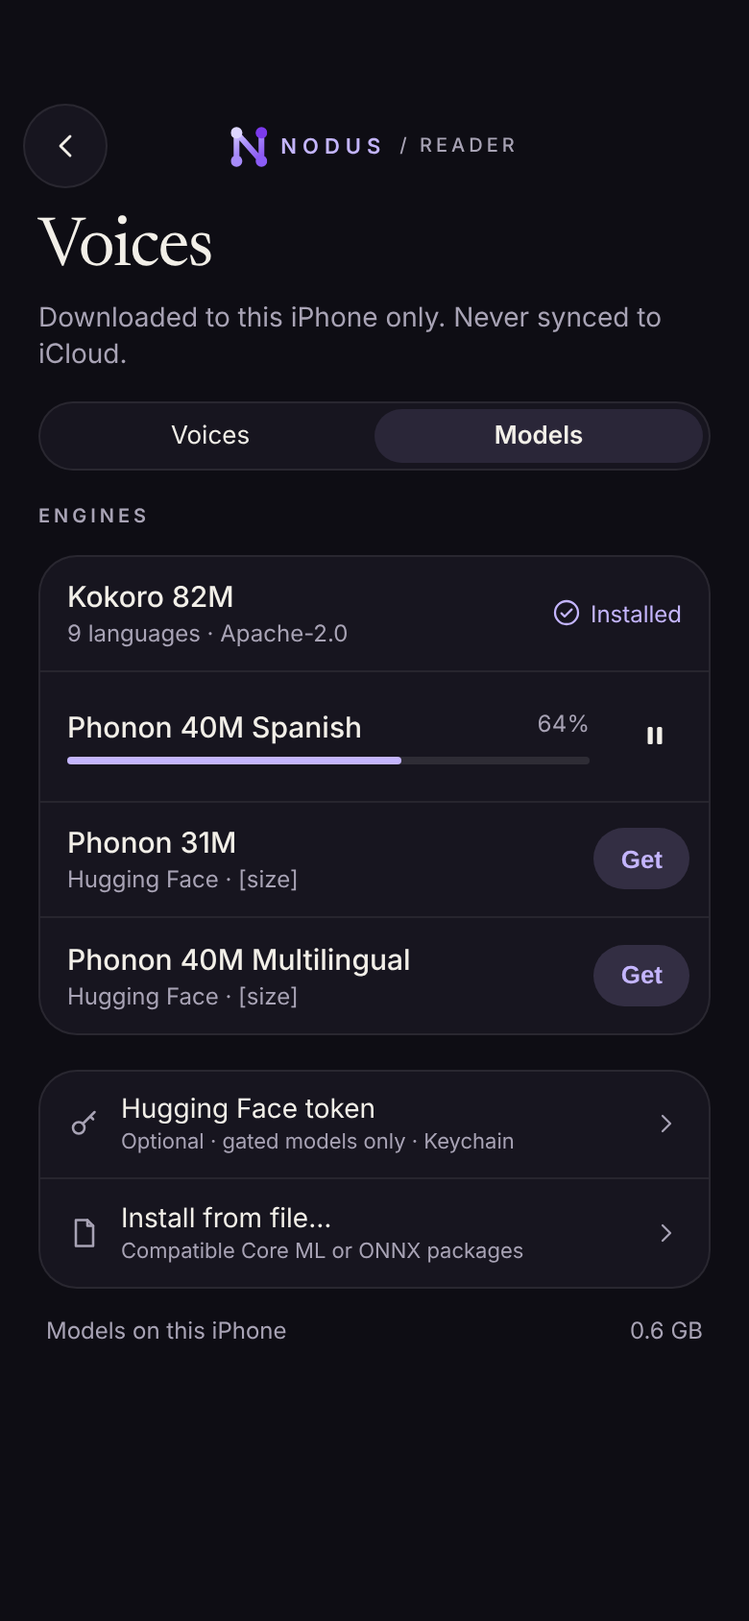
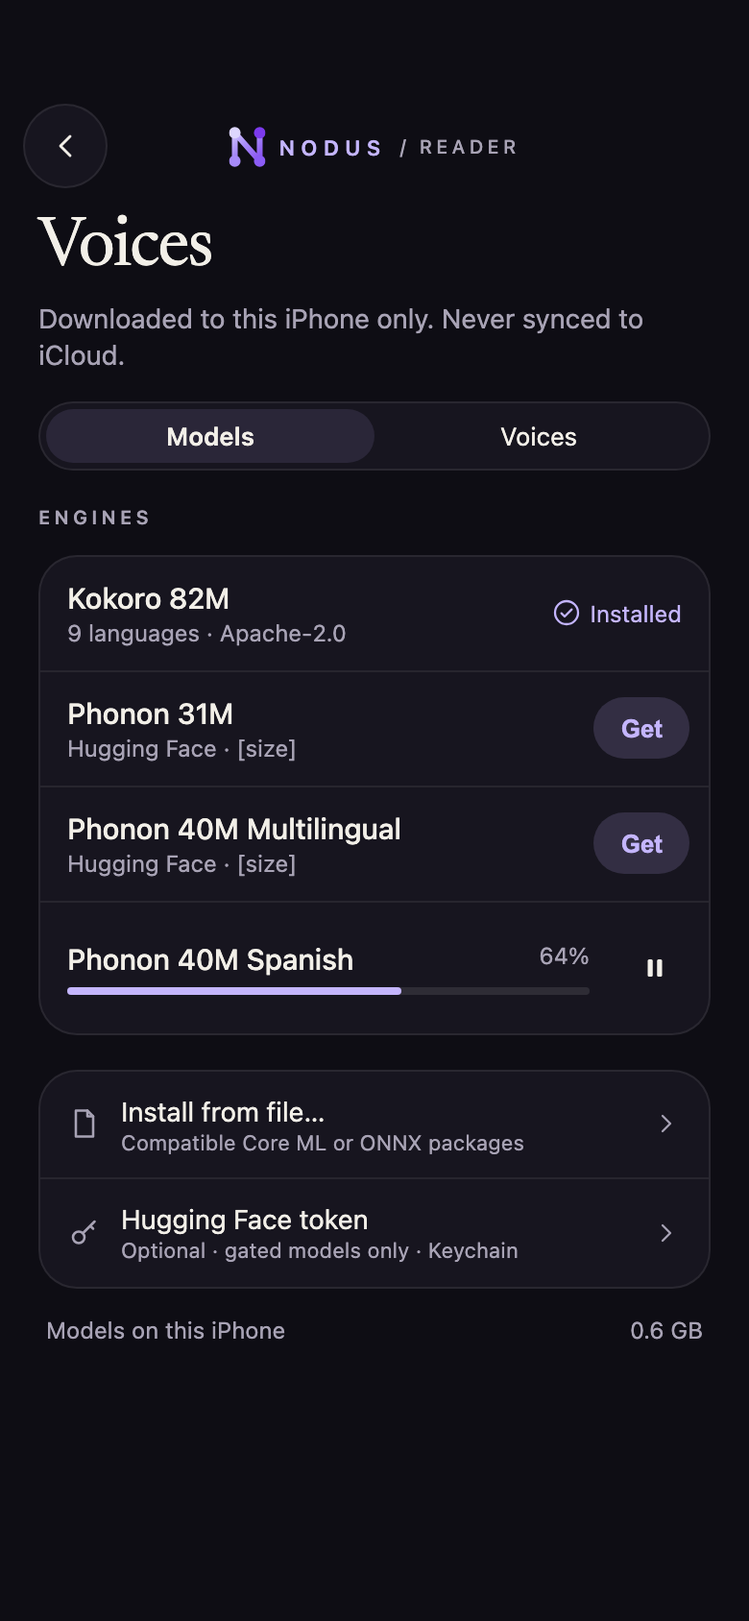
Show Models first and list gated Phonon models with the rest
- The Voices screen's segmented control now reads Models / Voices.
- Every model is in one list (Kokoro 82M, Phonon 31M, Phonon 40M
  Multilingual, Phonon 40M Spanish); Multilingual comes before Spanish.
- Download on a gated model first explains that it needs a Hugging Face
  sign-in and Gradium's accepted conditions, with Sign in (or Download
  when signed in), Show the guide and Cancel.
- The Hugging Face account section moves below the list and Install
  from file, and its copy names which models need an account.
- The Download button no longer repeats the size ("Download About
  300 MB download"); VoiceOver reads the model name.
- DESIGN.md, the Voices and Models mockups, previews and screenshots
  and the Spanish catalog are updated.

diff --git a/design/mockups/iPhone-Models.dc.html b/design/mockups/iPhone-Models.dc.html
@@ -33,8 +33,8 @@ svg.i{fill:none;stroke:currentColor;stroke-width:1.7;stroke-linecap:round;stroke
     </div>
 
     <div role="tablist" aria-label="Voices and models" style="height: 36px; padding: 3px; box-sizing: border-box; border-radius: 18px; background: #17151F; border: 1px solid rgba(255,255,255,0.08); display: grid; grid-template-columns: repeat(2, minmax(0, 1fr))">
-      <a href="iPhone-Voices.dc.html" role="tab" aria-selected="false" style="border-radius: 15px; color: #F2EFE8; font-size: 13px; text-decoration: none; display: flex; align-items: center; justify-content: center">Voices</a>
       <a href="iPhone-Models.dc.html" role="tab" aria-selected="true" style="border-radius: 15px; background: #2A2638; color: #F2EFE8; font-size: 13px; font-weight: 600; text-decoration: none; display: flex; align-items: center; justify-content: center">Models</a>
+      <a href="iPhone-Voices.dc.html" role="tab" aria-selected="false" style="border-radius: 15px; color: #F2EFE8; font-size: 13px; text-decoration: none; display: flex; align-items: center; justify-content: center">Voices</a>
     </div>
 
     <span style="font-size: 10px; font-weight: 600; letter-spacing: 2px; color: #A8A3B5; margin-top: 4px">ENGINES</span>
@@ -43,32 +43,32 @@ svg.i{fill:none;stroke:currentColor;stroke-width:1.7;stroke-linecap:round;stroke
         <span style="display: flex; flex-direction: column; gap: 2px; flex-grow: 1"><span style="font-size: 15px; font-weight: 500">Kokoro 82M</span><span style="font-size: 12px; color: #A8A3B5">9 languages · Apache-2.0</span></span>
         <span style="display: flex; align-items: center; gap: 4px; font-size: 12px; color: #C4B5FD"><svg class="i" viewBox="0 0 24 24" width="16" height="16" aria-hidden="true"><circle cx="12" cy="12" r="9"></circle><path d="M8 12.5l2.5 2.5L16 9.5"></path></svg>Installed</span>
       </div>
-      <div style="min-height: 68px; padding: 8px 6px 8px 14px; box-sizing: border-box; display: flex; align-items: center; gap: 12px; border-bottom: 1px solid rgba(255,255,255,0.07)">
+      <div style="min-height: 60px; padding: 8px 10px 8px 14px; box-sizing: border-box; display: flex; align-items: center; gap: 12px; border-bottom: 1px solid rgba(255,255,255,0.07)">
+        <span style="display: flex; flex-direction: column; gap: 2px; flex-grow: 1"><span style="font-size: 15px; font-weight: 500">Phonon 31M</span><span style="font-size: 12px; color: #A8A3B5">Hugging Face · [size]</span></span>
+        <button style="height: 32px; padding: 0 14px; border-radius: 16px; border: 0; background: rgba(196,181,253,0.16); color: #C4B5FD; font-size: 13px; font-weight: 600">Get</button>
+      </div>
+      <div style="min-height: 60px; padding: 8px 10px 8px 14px; box-sizing: border-box; display: flex; align-items: center; gap: 12px; border-bottom: 1px solid rgba(255,255,255,0.07)">
+        <span style="display: flex; flex-direction: column; gap: 2px; flex-grow: 1"><span style="font-size: 15px; font-weight: 500">Phonon 40M Multilingual</span><span style="font-size: 12px; color: #A8A3B5">Hugging Face · [size]</span></span>
+        <button style="height: 32px; padding: 0 14px; border-radius: 16px; border: 0; background: rgba(196,181,253,0.16); color: #C4B5FD; font-size: 13px; font-weight: 600">Get</button>
+      </div>
+      <div style="min-height: 68px; padding: 8px 6px 8px 14px; box-sizing: border-box; display: flex; align-items: center; gap: 12px">
         <span style="display: flex; flex-direction: column; gap: 6px; flex-grow: 1">
           <span style="display: flex; justify-content: space-between; gap: 8px"><span style="font-size: 15px; font-weight: 500">Phonon 40M Spanish</span><span style="font-size: 12px; color: #A8A3B5; font-variant-numeric: tabular-nums">64%</span></span>
           <span style="height: 4px; border-radius: 2px; background: rgba(255,255,255,0.1)"><span style="display: block; width: 64%; height: 4px; border-radius: 2px; background: #C4B5FD"></span></span>
         </span>
         <button aria-label="Pause download" style="width: 44px; height: 44px; border: 0; background: transparent; color: #F2EFE8; display: flex; align-items: center; justify-content: center; flex-shrink: 0"><svg viewBox="0 0 24 24" width="18" height="18" aria-hidden="true"><rect x="7" y="6" width="3.5" height="12" rx="1" fill="currentColor"></rect><rect x="13.5" y="6" width="3.5" height="12" rx="1" fill="currentColor"></rect></svg></button>
       </div>
-      <div style="min-height: 60px; padding: 8px 10px 8px 14px; box-sizing: border-box; display: flex; align-items: center; gap: 12px; border-bottom: 1px solid rgba(255,255,255,0.07)">
-        <span style="display: flex; flex-direction: column; gap: 2px; flex-grow: 1"><span style="font-size: 15px; font-weight: 500">Phonon 31M</span><span style="font-size: 12px; color: #A8A3B5">Hugging Face · [size]</span></span>
-        <button style="height: 32px; padding: 0 14px; border-radius: 16px; border: 0; background: rgba(196,181,253,0.16); color: #C4B5FD; font-size: 13px; font-weight: 600">Get</button>
-      </div>
-      <div style="min-height: 60px; padding: 8px 10px 8px 14px; box-sizing: border-box; display: flex; align-items: center; gap: 12px">
-        <span style="display: flex; flex-direction: column; gap: 2px; flex-grow: 1"><span style="font-size: 15px; font-weight: 500">Phonon 40M Multilingual</span><span style="font-size: 12px; color: #A8A3B5">Hugging Face · [size]</span></span>
-        <button style="height: 32px; padding: 0 14px; border-radius: 16px; border: 0; background: rgba(196,181,253,0.16); color: #C4B5FD; font-size: 13px; font-weight: 600">Get</button>
-      </div>
     </div>
 
     <div style="border-radius: 20px; background: #17151F; border: 1px solid rgba(255,255,255,0.08); overflow: hidden; margin-top: 4px">
       <a href="iPhone-Models.dc.html" style="min-height: 56px; padding: 0 14px; box-sizing: border-box; color: #F2EFE8; text-decoration: none; display: flex; align-items: center; gap: 10px; border-bottom: 1px solid rgba(255,255,255,0.07)">
-        <svg class="i" viewBox="0 0 24 24" width="18" height="18" aria-hidden="true" style="color: #A8A3B5"><circle cx="8" cy="15" r="4"></circle><path d="M11 12l8-8M16 7l2 2"></path></svg>
-        <span style="display: flex; flex-direction: column; gap: 1px; flex-grow: 1"><span style="font-size: 14px">Hugging Face token</span><span style="font-size: 11px; color: #A8A3B5">Optional · gated models only · Keychain</span></span>
+        <svg class="i" viewBox="0 0 24 24" width="18" height="18" aria-hidden="true" style="color: #A8A3B5"><path d="M6 3h8l4 4v14H6z"></path><path d="M14 3v4h4"></path></svg>
+        <span style="display: flex; flex-direction: column; gap: 1px; flex-grow: 1"><span style="font-size: 14px">Install from file…</span><span style="font-size: 11px; color: #A8A3B5">Compatible Core ML or ONNX packages</span></span>
         <svg class="i" viewBox="0 0 24 24" width="16" height="16" aria-hidden="true" style="color: #A8A3B5"><path d="M9 6l6 6-6 6"></path></svg>
       </a>
       <a href="iPhone-Models.dc.html" style="min-height: 56px; padding: 0 14px; box-sizing: border-box; color: #F2EFE8; text-decoration: none; display: flex; align-items: center; gap: 10px">
-        <svg class="i" viewBox="0 0 24 24" width="18" height="18" aria-hidden="true" style="color: #A8A3B5"><path d="M6 3h8l4 4v14H6z"></path><path d="M14 3v4h4"></path></svg>
-        <span style="display: flex; flex-direction: column; gap: 1px; flex-grow: 1"><span style="font-size: 14px">Install from file…</span><span style="font-size: 11px; color: #A8A3B5">Compatible Core ML or ONNX packages</span></span>
+        <svg class="i" viewBox="0 0 24 24" width="18" height="18" aria-hidden="true" style="color: #A8A3B5"><circle cx="8" cy="15" r="4"></circle><path d="M11 12l8-8M16 7l2 2"></path></svg>
+        <span style="display: flex; flex-direction: column; gap: 1px; flex-grow: 1"><span style="font-size: 14px">Hugging Face token</span><span style="font-size: 11px; color: #A8A3B5">Optional · gated models only · Keychain</span></span>
         <svg class="i" viewBox="0 0 24 24" width="16" height="16" aria-hidden="true" style="color: #A8A3B5"><path d="M9 6l6 6-6 6"></path></svg>
       </a>
     </div>

diff --git a/design/preview/iPhone-Models.html b/design/preview/iPhone-Models.html
@@ -31,8 +31,8 @@ svg.i{fill:none;stroke:currentColor;stroke-width:1.7;stroke-linecap:round;stroke
     </div>
 
     <div role="tablist" aria-label="Voices and models" style="height: 36px; padding: 3px; box-sizing: border-box; border-radius: 18px; background: #17151F; border: 1px solid rgba(255,255,255,0.08); display: grid; grid-template-columns: repeat(2, minmax(0, 1fr))">
-      <a href="iPhone-Voices.dc.html" role="tab" aria-selected="false" style="border-radius: 15px; color: #F2EFE8; font-size: 13px; text-decoration: none; display: flex; align-items: center; justify-content: center">Voices</a>
       <a href="iPhone-Models.dc.html" role="tab" aria-selected="true" style="border-radius: 15px; background: #2A2638; color: #F2EFE8; font-size: 13px; font-weight: 600; text-decoration: none; display: flex; align-items: center; justify-content: center">Models</a>
+      <a href="iPhone-Voices.dc.html" role="tab" aria-selected="false" style="border-radius: 15px; color: #F2EFE8; font-size: 13px; text-decoration: none; display: flex; align-items: center; justify-content: center">Voices</a>
     </div>
 
     <span style="font-size: 10px; font-weight: 600; letter-spacing: 2px; color: #A8A3B5; margin-top: 4px">ENGINES</span>
@@ -41,32 +41,32 @@ svg.i{fill:none;stroke:currentColor;stroke-width:1.7;stroke-linecap:round;stroke
         <span style="display: flex; flex-direction: column; gap: 2px; flex-grow: 1"><span style="font-size: 15px; font-weight: 500">Kokoro 82M</span><span style="font-size: 12px; color: #A8A3B5">9 languages · Apache-2.0</span></span>
         <span style="display: flex; align-items: center; gap: 4px; font-size: 12px; color: #C4B5FD"><svg class="i" viewBox="0 0 24 24" width="16" height="16" aria-hidden="true"><circle cx="12" cy="12" r="9"></circle><path d="M8 12.5l2.5 2.5L16 9.5"></path></svg>Installed</span>
       </div>
-      <div style="min-height: 68px; padding: 8px 6px 8px 14px; box-sizing: border-box; display: flex; align-items: center; gap: 12px; border-bottom: 1px solid rgba(255,255,255,0.07)">
+      <div style="min-height: 60px; padding: 8px 10px 8px 14px; box-sizing: border-box; display: flex; align-items: center; gap: 12px; border-bottom: 1px solid rgba(255,255,255,0.07)">
+        <span style="display: flex; flex-direction: column; gap: 2px; flex-grow: 1"><span style="font-size: 15px; font-weight: 500">Phonon 31M</span><span style="font-size: 12px; color: #A8A3B5">Hugging Face · [size]</span></span>
+        <button style="height: 32px; padding: 0 14px; border-radius: 16px; border: 0; background: rgba(196,181,253,0.16); color: #C4B5FD; font-size: 13px; font-weight: 600">Get</button>
+      </div>
+      <div style="min-height: 60px; padding: 8px 10px 8px 14px; box-sizing: border-box; display: flex; align-items: center; gap: 12px; border-bottom: 1px solid rgba(255,255,255,0.07)">
+        <span style="display: flex; flex-direction: column; gap: 2px; flex-grow: 1"><span style="font-size: 15px; font-weight: 500">Phonon 40M Multilingual</span><span style="font-size: 12px; color: #A8A3B5">Hugging Face · [size]</span></span>
+        <button style="height: 32px; padding: 0 14px; border-radius: 16px; border: 0; background: rgba(196,181,253,0.16); color: #C4B5FD; font-size: 13px; font-weight: 600">Get</button>
+      </div>
+      <div style="min-height: 68px; padding: 8px 6px 8px 14px; box-sizing: border-box; display: flex; align-items: center; gap: 12px">
         <span style="display: flex; flex-direction: column; gap: 6px; flex-grow: 1">
           <span style="display: flex; justify-content: space-between; gap: 8px"><span style="font-size: 15px; font-weight: 500">Phonon 40M Spanish</span><span style="font-size: 12px; color: #A8A3B5; font-variant-numeric: tabular-nums">64%</span></span>
           <span style="height: 4px; border-radius: 2px; background: rgba(255,255,255,0.1)"><span style="display: block; width: 64%; height: 4px; border-radius: 2px; background: #C4B5FD"></span></span>
         </span>
         <button aria-label="Pause download" style="width: 44px; height: 44px; border: 0; background: transparent; color: #F2EFE8; display: flex; align-items: center; justify-content: center; flex-shrink: 0"><svg viewBox="0 0 24 24" width="18" height="18" aria-hidden="true"><rect x="7" y="6" width="3.5" height="12" rx="1" fill="currentColor"></rect><rect x="13.5" y="6" width="3.5" height="12" rx="1" fill="currentColor"></rect></svg></button>
       </div>
-      <div style="min-height: 60px; padding: 8px 10px 8px 14px; box-sizing: border-box; display: flex; align-items: center; gap: 12px; border-bottom: 1px solid rgba(255,255,255,0.07)">
-        <span style="display: flex; flex-direction: column; gap: 2px; flex-grow: 1"><span style="font-size: 15px; font-weight: 500">Phonon 31M</span><span style="font-size: 12px; color: #A8A3B5">Hugging Face · [size]</span></span>
-        <button style="height: 32px; padding: 0 14px; border-radius: 16px; border: 0; background: rgba(196,181,253,0.16); color: #C4B5FD; font-size: 13px; font-weight: 600">Get</button>
-      </div>
-      <div style="min-height: 60px; padding: 8px 10px 8px 14px; box-sizing: border-box; display: flex; align-items: center; gap: 12px">
-        <span style="display: flex; flex-direction: column; gap: 2px; flex-grow: 1"><span style="font-size: 15px; font-weight: 500">Phonon 40M Multilingual</span><span style="font-size: 12px; color: #A8A3B5">Hugging Face · [size]</span></span>
-        <button style="height: 32px; padding: 0 14px; border-radius: 16px; border: 0; background: rgba(196,181,253,0.16); color: #C4B5FD; font-size: 13px; font-weight: 600">Get</button>
-      </div>
     </div>
 
     <div style="border-radius: 20px; background: #17151F; border: 1px solid rgba(255,255,255,0.08); overflow: hidden; margin-top: 4px">
       <a href="iPhone-Models.dc.html" style="min-height: 56px; padding: 0 14px; box-sizing: border-box; color: #F2EFE8; text-decoration: none; display: flex; align-items: center; gap: 10px; border-bottom: 1px solid rgba(255,255,255,0.07)">
-        <svg class="i" viewBox="0 0 24 24" width="18" height="18" aria-hidden="true" style="color: #A8A3B5"><circle cx="8" cy="15" r="4"></circle><path d="M11 12l8-8M16 7l2 2"></path></svg>
-        <span style="display: flex; flex-direction: column; gap: 1px; flex-grow: 1"><span style="font-size: 14px">Hugging Face token</span><span style="font-size: 11px; color: #A8A3B5">Optional · gated models only · Keychain</span></span>
+        <svg class="i" viewBox="0 0 24 24" width="18" height="18" aria-hidden="true" style="color: #A8A3B5"><path d="M6 3h8l4 4v14H6z"></path><path d="M14 3v4h4"></path></svg>
+        <span style="display: flex; flex-direction: column; gap: 1px; flex-grow: 1"><span style="font-size: 14px">Install from file…</span><span style="font-size: 11px; color: #A8A3B5">Compatible Core ML or ONNX packages</span></span>
         <svg class="i" viewBox="0 0 24 24" width="16" height="16" aria-hidden="true" style="color: #A8A3B5"><path d="M9 6l6 6-6 6"></path></svg>
       </a>
       <a href="iPhone-Models.dc.html" style="min-height: 56px; padding: 0 14px; box-sizing: border-box; color: #F2EFE8; text-decoration: none; display: flex; align-items: center; gap: 10px">
-        <svg class="i" viewBox="0 0 24 24" width="18" height="18" aria-hidden="true" style="color: #A8A3B5"><path d="M6 3h8l4 4v14H6z"></path><path d="M14 3v4h4"></path></svg>
-        <span style="display: flex; flex-direction: column; gap: 1px; flex-grow: 1"><span style="font-size: 14px">Install from file…</span><span style="font-size: 11px; color: #A8A3B5">Compatible Core ML or ONNX packages</span></span>
+        <svg class="i" viewBox="0 0 24 24" width="18" height="18" aria-hidden="true" style="color: #A8A3B5"><circle cx="8" cy="15" r="4"></circle><path d="M11 12l8-8M16 7l2 2"></path></svg>
+        <span style="display: flex; flex-direction: column; gap: 1px; flex-grow: 1"><span style="font-size: 14px">Hugging Face token</span><span style="font-size: 11px; color: #A8A3B5">Optional · gated models only · Keychain</span></span>
         <svg class="i" viewBox="0 0 24 24" width="16" height="16" aria-hidden="true" style="color: #A8A3B5"><path d="M9 6l6 6-6 6"></path></svg>
       </a>
     </div>

diff --git a/NodusReader/Features/Settings/VoicesView.swift b/NodusReader/Features/Settings/VoicesView.swift
@@ -4,8 +4,8 @@ import DesignSystem
 import SwiftUI
 
 enum VoicesMode: String, CaseIterable, Identifiable {
-    case voices = "Voices"
     case models = "Models"
+    case voices = "Voices"
     var id: String { rawValue }
 }
 
@@ -32,6 +32,9 @@ struct VoicesView: View {
     @State private var isSigningIn = false
     @Environment(\.webAuthenticationSession) private var webAuthenticationSession
     @State private var showBundleImporter = false
+    /// The gated model whose Download button was selected, shown in the
+    /// Hugging Face notice before anything is downloaded.
+    @State private var gatedModelToDownload: ModelManager.Model?
     /// Choosing a voice in the list switches the model without moving the
     /// filters under the user's finger.
     @State private var keepFiltersOnModelChange = false
@@ -102,6 +105,23 @@ struct VoicesView: View {
         }
         .inlineNavigationTitle()
         .navigationBarBackground(palette.background)
+        .sheet(isPresented: $showTokenGuide) {
+            HuggingFaceGuideView(gatedModels: models.models.filter(\.requiresAcceptedLicense))
+        }
+        .alert("Hugging Face account required",
+               isPresented: Binding(get: { gatedModelToDownload != nil },
+                                    set: { if !$0 { gatedModelToDownload = nil } }),
+               presenting: gatedModelToDownload) { model in
+            if hasHuggingFaceAccess {
+                Button("Download") { models.install(model) }
+            } else {
+                Button("Sign in with Hugging Face") { signInWithHuggingFace() }
+            }
+            Button("Show the guide") { showTokenGuide = true }
+            Button("Cancel", role: .cancel) {}
+        } message: { model in
+            Text("\(model.name) is published by Gradium with a gated licence. To download it, sign in to Hugging Face and accept Gradium's conditions on the model's page with the same account. The guide explains each step.")
+        }
         .onChange(of: models.selectedModelID) { _, _ in
             guard didSetInitialLanguage else { return }
             if keepFiltersOnModelChange {
@@ -317,18 +337,10 @@ struct VoicesView: View {
         Eyebrow("Neural engines")
             .padding(.top, 8)
 
-        ForEach(models.models.filter { !$0.requiresAcceptedLicense }) { model in
-            modelCard(model)
-        }
-
-        // The account section sits right above the models whose licence must
-        // be accepted on Hugging Face.
-        Eyebrow("Hugging Face")
-            .padding(.top, 6)
-
-        huggingFaceCard
-
-        ForEach(models.models.filter(\.requiresAcceptedLicense)) { model in
+        // Every model in one list, so the gated ones are found without
+        // scrolling past the account section. Their Download button explains
+        // the Hugging Face requirement first.
+        ForEach(models.models) { model in
             modelCard(model)
         }
 
@@ -353,6 +365,11 @@ struct VoicesView: View {
                 .padding(.horizontal, 4)
                 .fixedSize(horizontal: false, vertical: true)
         }
+
+        Eyebrow("Hugging Face")
+            .padding(.top, 6)
+
+        huggingFaceCard
 
         HStack {
             Text("Models and audio on this \(DeviceInfo.platformName)")
@@ -620,13 +637,18 @@ struct VoicesView: View {
                         .fixedSize(horizontal: false, vertical: true)
                 }
                 Button {
-                    models.install(model)
+                    if model.requiresAcceptedLicense {
+                        gatedModelToDownload = model
+                    } else {
+                        models.install(model)
+                    }
                 } label: {
-                    Label("Download \(model.sizeText)", systemImage: "arrow.down.circle")
+                    Label("Download", systemImage: "arrow.down.circle")
                         .font(.footnote.weight(.semibold))
                 }
                 .buttonStyle(.bordered)
                 .tint(palette.accent)
+                .accessibilityLabel("Download \(model.name)")
             } else if model.isAvailable {
                 // Not downloadable in the app: say how to get it, and offer
                 // the folder picker right here.
@@ -650,11 +672,17 @@ struct VoicesView: View {
         }
     }
 
+    /// A sign-in or a saved token; the licence itself is checked by Hugging
+    /// Face when the download starts.
+    private var hasHuggingFaceAccess: Bool {
+        hfSession != nil || tokenSaved
+    }
+
     private var huggingFaceCard: some View {
         VStack(alignment: .leading, spacing: 10) {
             Text("Hugging Face account (optional)")
                 .font(.subheadline.weight(.medium))
-            Text("The Kokoro and Phonon bundles used here are public, so no account is required. Sign-in details and tokens are kept in this device's Keychain only and are never written to iCloud, the library or logs.")
+            Text("Kokoro 82M and Phonon 31M are public and need no account. Phonon 40M Multilingual and Spanish need an account that has accepted Gradium's conditions. Sign-in details and tokens are kept in this device's Keychain only and are never written to iCloud, the library or logs.")
                 .font(.caption)
                 .foregroundStyle(palette.muted)
                 .fixedSize(horizontal: false, vertical: true)
@@ -669,9 +697,6 @@ struct VoicesView: View {
             }
             .buttonStyle(.plain)
             .foregroundStyle(palette.accent)
-            .sheet(isPresented: $showTokenGuide) {
-                HuggingFaceGuideView(gatedModels: models.models.filter(\.requiresAcceptedLicense))
-            }
             huggingFaceSignIn
             Text("Or paste an access token")
                 .font(.caption.weight(.medium))

diff --git a/NodusReader/Core/Services/ModelManager.swift b/NodusReader/Core/Services/ModelManager.swift
@@ -235,21 +235,6 @@ final class ModelManager {
             availability: .available
         ),
         Model(
-            id: ModelManager.phonon40SpanishID,
-            engine: .phonon,
-            name: String(localized: "Phonon 40M Spanish"),
-            detail: String(localized: "Spanish narration with 25 voices from Spain and Mexico."),
-            language: String(localized: "Spanish"),
-            sizeText: String(localized: "About 130 MB download"),
-            license: "CC BY-NC 4.0",
-            source: URL(string: "https://huggingface.co/gradium/phonon-40m-es")!,
-            voices: ModelManager.phonon40SpanishVoices,
-            availability: .available,
-            requiresAcceptedLicense: true,
-            phononLanguage: .spanish,
-            installNote: String(localized: "Needs a Hugging Face account that has accepted Gradium's conditions for this model (sign in above). Nodus Reader downloads it with your sign-in and converts it to Core ML on this device: about 130 MB to download, 200 MB installed. Gradium licenses this model under CC BY-NC 4.0, non-commercial use only; that licence applies on its own, separate from Nodus Reader's AGPL-3.0.")
-        ),
-        Model(
             id: ModelManager.phonon40MultilingualID,
             engine: .phonon,
             name: String(localized: "Phonon 40M Multilingual"),
@@ -263,7 +248,22 @@ final class ModelManager {
             availability: .available,
             requiresAcceptedLicense: true,
             phononLanguage: .english,
-            installNote: String(localized: "Needs a Hugging Face account that has accepted Gradium's conditions for this model (sign in above). Nodus Reader downloads it with your sign-in and converts it to Core ML on this device: about 150 MB to download, 230 MB installed. Each voice reads its own language. Gradium licenses this model under CC BY-NC 4.0, non-commercial use only; that licence applies on its own, separate from Nodus Reader's AGPL-3.0.")
+            installNote: String(localized: "Needs a Hugging Face account that has accepted Gradium's conditions for this model (sign in below). Nodus Reader downloads it with your sign-in and converts it to Core ML on this device: about 150 MB to download, 230 MB installed. Each voice reads its own language. Gradium licenses this model under CC BY-NC 4.0, non-commercial use only; that licence applies on its own, separate from Nodus Reader's AGPL-3.0.")
+        ),
+        Model(
+            id: ModelManager.phonon40SpanishID,
+            engine: .phonon,
+            name: String(localized: "Phonon 40M Spanish"),
+            detail: String(localized: "Spanish narration with 25 voices from Spain and Mexico."),
+            language: String(localized: "Spanish"),
+            sizeText: String(localized: "About 130 MB download"),
+            license: "CC BY-NC 4.0",
+            source: URL(string: "https://huggingface.co/gradium/phonon-40m-es")!,
+            voices: ModelManager.phonon40SpanishVoices,
+            availability: .available,
+            requiresAcceptedLicense: true,
+            phononLanguage: .spanish,
+            installNote: String(localized: "Needs a Hugging Face account that has accepted Gradium's conditions for this model (sign in below). Nodus Reader downloads it with your sign-in and converts it to Core ML on this device: about 130 MB to download, 200 MB installed. Gradium licenses this model under CC BY-NC 4.0, non-commercial use only; that licence applies on its own, separate from Nodus Reader's AGPL-3.0.")
         )
     ]
 

diff --git a/design/mockups/iPhone-Voices.dc.html b/design/mockups/iPhone-Voices.dc.html
@@ -33,8 +33,8 @@ svg.i{fill:none;stroke:currentColor;stroke-width:1.7;stroke-linecap:round;stroke
     </div>
 
     <div role="tablist" aria-label="Voices and models" style="height: 36px; padding: 3px; box-sizing: border-box; border-radius: 18px; background: #17151F; border: 1px solid rgba(255,255,255,0.08); display: grid; grid-template-columns: repeat(2, minmax(0, 1fr))">
-      <a href="iPhone-Voices.dc.html" role="tab" aria-selected="true" style="border-radius: 15px; background: #2A2638; color: #F2EFE8; font-size: 13px; font-weight: 600; text-decoration: none; display: flex; align-items: center; justify-content: center">Voices</a>
       <a href="iPhone-Models.dc.html" role="tab" aria-selected="false" style="border-radius: 15px; color: #F2EFE8; font-size: 13px; text-decoration: none; display: flex; align-items: center; justify-content: center">Models</a>
+      <a href="iPhone-Voices.dc.html" role="tab" aria-selected="true" style="border-radius: 15px; background: #2A2638; color: #F2EFE8; font-size: 13px; font-weight: 600; text-decoration: none; display: flex; align-items: center; justify-content: center">Voices</a>
     </div>
 
     <label style="height: 44px; box-sizing: border-box; padding: 0 14px; border-radius: 22px; background: #17151F; border: 1px solid rgba(255,255,255,0.08); display: flex; align-items: center; gap: 8px; color: #A8A3B5">

diff --git a/design/preview/iPhone-Voices.html b/design/preview/iPhone-Voices.html
@@ -31,8 +31,8 @@ svg.i{fill:none;stroke:currentColor;stroke-width:1.7;stroke-linecap:round;stroke
     </div>
 
     <div role="tablist" aria-label="Voices and models" style="height: 36px; padding: 3px; box-sizing: border-box; border-radius: 18px; background: #17151F; border: 1px solid rgba(255,255,255,0.08); display: grid; grid-template-columns: repeat(2, minmax(0, 1fr))">
-      <a href="iPhone-Voices.dc.html" role="tab" aria-selected="true" style="border-radius: 15px; background: #2A2638; color: #F2EFE8; font-size: 13px; font-weight: 600; text-decoration: none; display: flex; align-items: center; justify-content: center">Voices</a>
       <a href="iPhone-Models.dc.html" role="tab" aria-selected="false" style="border-radius: 15px; color: #F2EFE8; font-size: 13px; text-decoration: none; display: flex; align-items: center; justify-content: center">Models</a>
+      <a href="iPhone-Voices.dc.html" role="tab" aria-selected="true" style="border-radius: 15px; background: #2A2638; color: #F2EFE8; font-size: 13px; font-weight: 600; text-decoration: none; display: flex; align-items: center; justify-content: center">Voices</a>
     </div>
 
     <label style="height: 44px; box-sizing: border-box; padding: 0 14px; border-radius: 22px; background: #17151F; border: 1px solid rgba(255,255,255,0.08); display: flex; align-items: center; gap: 8px; color: #A8A3B5">

diff --git a/tools/localization/es2.py b/tools/localization/es2.py
@@ -375,7 +375,7 @@ ES.update({
 })
 ES.update({
 "About 130 MB download": "Descarga de unos 130 MB",
-"Needs a Hugging Face account that has accepted Gradium's conditions for this model (sign in above). Nodus Reader downloads it with your sign-in and converts it to Core ML on this device: about 130 MB to download, 200 MB installed. Licence CC BY-NC 4.0: non-commercial use.": "Necesita una cuenta de Hugging Face que haya aceptado las condiciones de Gradium para este modelo (inicia sesión más arriba). Nodus Reader lo descarga con tu sesión y lo convierte a Core ML en este dispositivo: unos 130 MB de descarga y 200 MB instalado. Licencia CC BY-NC 4.0: uso no comercial.",
+"Needs a Hugging Face account that has accepted Gradium's conditions for this model (sign in below). Nodus Reader downloads it with your sign-in and converts it to Core ML on this device: about 130 MB to download, 200 MB installed. Licence CC BY-NC 4.0: non-commercial use.": "Necesita una cuenta de Hugging Face que haya aceptado las condiciones de Gradium para este modelo (inicia sesión más abajo). Nodus Reader lo descarga con tu sesión y lo convierte a Core ML en este dispositivo: unos 130 MB de descarga y 200 MB instalado. Licencia CC BY-NC 4.0: uso no comercial.",
 "Converting": "Convirtiendo",
 "Converting the model for this device. This can take a few minutes; keep Nodus Reader open.": "Convirtiendo el modelo para este dispositivo. Puede tardar unos minutos; mantén Nodus Reader abierto.",
 "Sign in to Hugging Face first (Hugging Face section above), with an account that has accepted this model's conditions.": "Primero inicia sesión en Hugging Face (sección Hugging Face, más arriba) con una cuenta que haya aceptado las condiciones de este modelo.",
@@ -387,12 +387,12 @@ ES.update({
 ES.update({
 "English, Spanish, French, German and Portuguese with 102 voices.": "Inglés, español, francés, alemán y portugués con 102 voces.",
 "About 150 MB download": "Descarga de unos 150 MB",
-"Needs a Hugging Face account that has accepted Gradium's conditions for this model (sign in above). Nodus Reader downloads it with your sign-in and converts it to Core ML on this device: about 150 MB to download, 230 MB installed. Each voice reads its own language. Licence CC BY-NC 4.0: non-commercial use.": "Necesita una cuenta de Hugging Face que haya aceptado las condiciones de Gradium para este modelo (inicia sesión más arriba). Nodus Reader lo descarga con tu sesión y lo convierte a Core ML en este dispositivo: unos 150 MB de descarga y 230 MB instalado. Cada voz lee en su propio idioma. Licencia CC BY-NC 4.0: uso no comercial.",
+"Needs a Hugging Face account that has accepted Gradium's conditions for this model (sign in below). Nodus Reader downloads it with your sign-in and converts it to Core ML on this device: about 150 MB to download, 230 MB installed. Each voice reads its own language. Licence CC BY-NC 4.0: non-commercial use.": "Necesita una cuenta de Hugging Face que haya aceptado las condiciones de Gradium para este modelo (inicia sesión más abajo). Nodus Reader lo descarga con tu sesión y lo convierte a Core ML en este dispositivo: unos 150 MB de descarga y 230 MB instalado. Cada voz lee en su propio idioma. Licencia CC BY-NC 4.0: uso no comercial.",
 "Select": "Seleccionar",
 })
 ES.update({
-"Needs a Hugging Face account that has accepted Gradium's conditions for this model (sign in above). Nodus Reader downloads it with your sign-in and converts it to Core ML on this device: about 130 MB to download, 200 MB installed. Gradium licenses this model under CC BY-NC 4.0, non-commercial use only; that licence applies on its own, separate from Nodus Reader's AGPL-3.0.": "Necesita una cuenta de Hugging Face que haya aceptado las condiciones de Gradium para este modelo (inicia sesión más arriba). Nodus Reader lo descarga con tu sesión y lo convierte a Core ML en este dispositivo: unos 130 MB de descarga y 200 MB instalado. Gradium distribuye este modelo con licencia CC BY-NC 4.0, solo para uso no comercial; esa licencia se aplica por separado, con independencia de la AGPL-3.0 de Nodus Reader.",
-"Needs a Hugging Face account that has accepted Gradium's conditions for this model (sign in above). Nodus Reader downloads it with your sign-in and converts it to Core ML on this device: about 150 MB to download, 230 MB installed. Each voice reads its own language. Gradium licenses this model under CC BY-NC 4.0, non-commercial use only; that licence applies on its own, separate from Nodus Reader's AGPL-3.0.": "Necesita una cuenta de Hugging Face que haya aceptado las condiciones de Gradium para este modelo (inicia sesión más arriba). Nodus Reader lo descarga con tu sesión y lo convierte a Core ML en este dispositivo: unos 150 MB de descarga y 230 MB instalado. Cada voz lee en su propio idioma. Gradium distribuye este modelo con licencia CC BY-NC 4.0, solo para uso no comercial; esa licencia se aplica por separado, con independencia de la AGPL-3.0 de Nodus Reader.",
+"Needs a Hugging Face account that has accepted Gradium's conditions for this model (sign in below). Nodus Reader downloads it with your sign-in and converts it to Core ML on this device: about 130 MB to download, 200 MB installed. Gradium licenses this model under CC BY-NC 4.0, non-commercial use only; that licence applies on its own, separate from Nodus Reader's AGPL-3.0.": "Necesita una cuenta de Hugging Face que haya aceptado las condiciones de Gradium para este modelo (inicia sesión más abajo). Nodus Reader lo descarga con tu sesión y lo convierte a Core ML en este dispositivo: unos 130 MB de descarga y 200 MB instalado. Gradium distribuye este modelo con licencia CC BY-NC 4.0, solo para uso no comercial; esa licencia se aplica por separado, con independencia de la AGPL-3.0 de Nodus Reader.",
+"Needs a Hugging Face account that has accepted Gradium's conditions for this model (sign in below). Nodus Reader downloads it with your sign-in and converts it to Core ML on this device: about 150 MB to download, 230 MB installed. Each voice reads its own language. Gradium licenses this model under CC BY-NC 4.0, non-commercial use only; that licence applies on its own, separate from Nodus Reader's AGPL-3.0.": "Necesita una cuenta de Hugging Face que haya aceptado las condiciones de Gradium para este modelo (inicia sesión más abajo). Nodus Reader lo descarga con tu sesión y lo convierte a Core ML en este dispositivo: unos 150 MB de descarga y 230 MB instalado. Cada voz lee en su propio idioma. Gradium distribuye este modelo con licencia CC BY-NC 4.0, solo para uso no comercial; esa licencia se aplica por separado, con independencia de la AGPL-3.0 de Nodus Reader.",
 })
 ES.update({
 "Voices of every model on this %@. Play any of them to try it; choosing one from another model makes that model the voice engine. Nothing is synced to iCloud.": "Voces de todos los modelos de este %@. Reproduce cualquiera para probarla; si eliges una de otro modelo, ese modelo pasa a ser el motor de voz. No se sincroniza nada con iCloud.",
@@ -513,6 +513,10 @@ ES.update({
 ES.update({
     "Gender": "Género",
     "All genders": "Todos los géneros",
+    "Hugging Face account required": "Hace falta una cuenta de Hugging Face",
+    "Show the guide": "Ver la guía",
+    "%@ is published by Gradium with a gated licence. To download it, sign in to Hugging Face and accept Gradium's conditions on the model's page with the same account. The guide explains each step.": "Gradium publica %@ con una licencia restringida. Para descargarlo, inicia sesión en Hugging Face y acepta las condiciones de Gradium en la página del modelo con la misma cuenta. La guía explica cada paso.",
+    "Kokoro 82M and Phonon 31M are public and need no account. Phonon 40M Multilingual and Spanish need an account that has accepted Gradium's conditions. Sign-in details and tokens are kept in this device's Keychain only and are never written to iCloud, the library or logs.": "Kokoro 82M y Phonon 31M son públicos y no necesitan cuenta. Phonon 40M Multilingüe y Español necesitan una cuenta que haya aceptado las condiciones de Gradium. Los datos de inicio de sesión y los tokens se guardan solo en el llavero de este dispositivo y nunca se escriben en iCloud, en la biblioteca ni en registros.",
     "Female": "Femenina",
     "Male": "Masculina",
 })

diff --git a/design/DESIGN.md b/design/DESIGN.md
@@ -196,8 +196,8 @@ Tapping the mini player opens the full player as a sheet.
 | `iPhone-Reader.dc.html` | **Reader (Read & Listen)** | Minimal top bar: back, title and chapter, contents, Aa. Chapter opener. The narrated sentence is highlighted. User highlights carry a note marker. Page and percent are centered at the bottom. A floating narration capsule holds previous sentence, play/pause, next sentence, the mode label with voice and speed (opens the player), and a sleep timer. Supports the theme switch (Light, Sepia, Dark, OLED). |
 | `iPhone-NowPlaying.dc.html` | **Player** (sheet) | Large cover, title, and a 3-line live context of the narration with the current sentence emphasized. A scrubber shows sentence and chapter position. Transport: previous chapter, previous sentence, play (76 pt), next sentence, next chapter. A 4-up grid: Speed, Voice (with engine), Sleep timer, Mode toggle. Footer: "Voice generated on this iPhone". |
 | `iPhone-Settings.dc.html` | **Settings** | A **Theme** section with an `App` / `Reader` segmented control (separate app and reader appearance), a 3 × 2 theme picker (System, Light, Dark, OLED Black, Sepia, High Contrast) as radio tiles with an "Aa" preview, and "Create custom theme". **General:** iCloud Sync, Voices & Models, Reading & Typography, Privacy, About. |
-| `iPhone-Voices.dc.html` | **Voices** | A `Voices` / `Models` segmented control, `.searchable` voice search, and filter menus for **Model** (All, Kokoro 82M, Phonon 31M, Phonon 40M Spanish, Phonon 40M Multilingual), **Language** and **Gender** (All, Female, Male: the publisher's label; voices without one, such as Phonon's character voices, appear only under All), plus Clear. When the chips do not fit the width they scroll sideways. Each row has play sample (or download if not installed), name, "BOOK DEFAULT" badge, engine and language, and a favorite star. |
-| `iPhone-Models.dc.html` | **Models** | Engine list with installed, downloading (progress + pause) and available (Get) states, license info, the Hugging Face token (optional, stored in Keychain), "Install from file…" and local storage used. |
+| `iPhone-Voices.dc.html` | **Voices** | A `Models` / `Voices` segmented control (Models first, so new users find the downloads), `.searchable` voice search, and filter menus for **Model** (All, Kokoro 82M, Phonon 31M, Phonon 40M Multilingual, Phonon 40M Spanish), **Language** and **Gender** (All, Female, Male: the publisher's label; voices without one, such as Phonon's character voices, appear only under All), plus Clear. When the chips do not fit the width they scroll sideways. Each row has play sample (or download if not installed), name, "BOOK DEFAULT" badge, engine and language, and a favorite star. |
+| `iPhone-Models.dc.html` | **Models** | One engine list with every model, gated ones included (Kokoro 82M, Phonon 31M, Phonon 40M Multilingual, Phonon 40M Spanish), with installed, downloading (progress + pause) and available (Get) states and license info. Get on a gated model first shows a notice that it needs a Hugging Face sign-in and Gradium's accepted conditions, with Sign in (or Download when signed in), Show the guide and Cancel. Below the list: "Install from file…", the Hugging Face account (sign-in/sign-out or a token, stored in Keychain) and local storage used. |
 | `iPhone-Sync.dc.html` | **iCloud Sync** | The "Sync with iCloud" toggle, status card ("Up to date", last successful sync, offline-queue note), downloaded books (count), "Download all books", a storage bar (Books / Voices / Caches), a "stays on this device" note and troubleshooting. Never imply sync is instant. |
 
 ### iPad: `NavigationSplitView` (sidebar + content)
